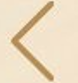
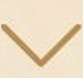
test2

diff --git a/index.html b/index.html
@@ -56,9 +56,18 @@
 
       .daoh {
         position: absolute;
-        width: 10%;
+        width: 8%;
         left: 50%;
         bottom: 10px;
+        transform: translate(-50%, 0);
+        cursor: pointer;
+        z-index: 2;
+      }
+      .shang{
+        position: absolute;
+        width: 8%;
+        left: 50%;
+        top: 10px;
         transform: translate(-50%, 0);
         cursor: pointer;
         z-index: 2;
@@ -81,7 +90,11 @@
       <img class="title" src="img/标题.png" alt="标题">
       <img class="zhi" src="img/纸上.png" alt="纸上">
       <img class="zhi1" src="img/纸下.png" alt="纸下">
-      <a href="other/shitu1.html"><img class="daoh" src="img/导航.png" alt="导航"></a>
+      <a href="other/shitu1.html"><img class="daoh" src="img/返回键3.png" alt="导航"></a>
+      <img class="shang" src="img/返回键2.png" alt="上标">
+      <!-- <img class="xai" src="img/下标.png" alt="下标">
+      <img class="shang" src="img/上标.jpg" alt="上标"> -->
+      
     </div>
 
     <script>
@@ -105,6 +118,7 @@
       // 判断是否是双指滑动并处理
       document.body.addEventListener('touchmove', function(e) {
         if (e.touches.length === 2 && startTouch) {
+            //deltaX 和 deltaY 是实时变化的
           const deltaX = e.touches[0].clientX - e.touches[1].clientX;
           const deltaY = e.touches[0].clientY - e.touches[1].clientY;
 
